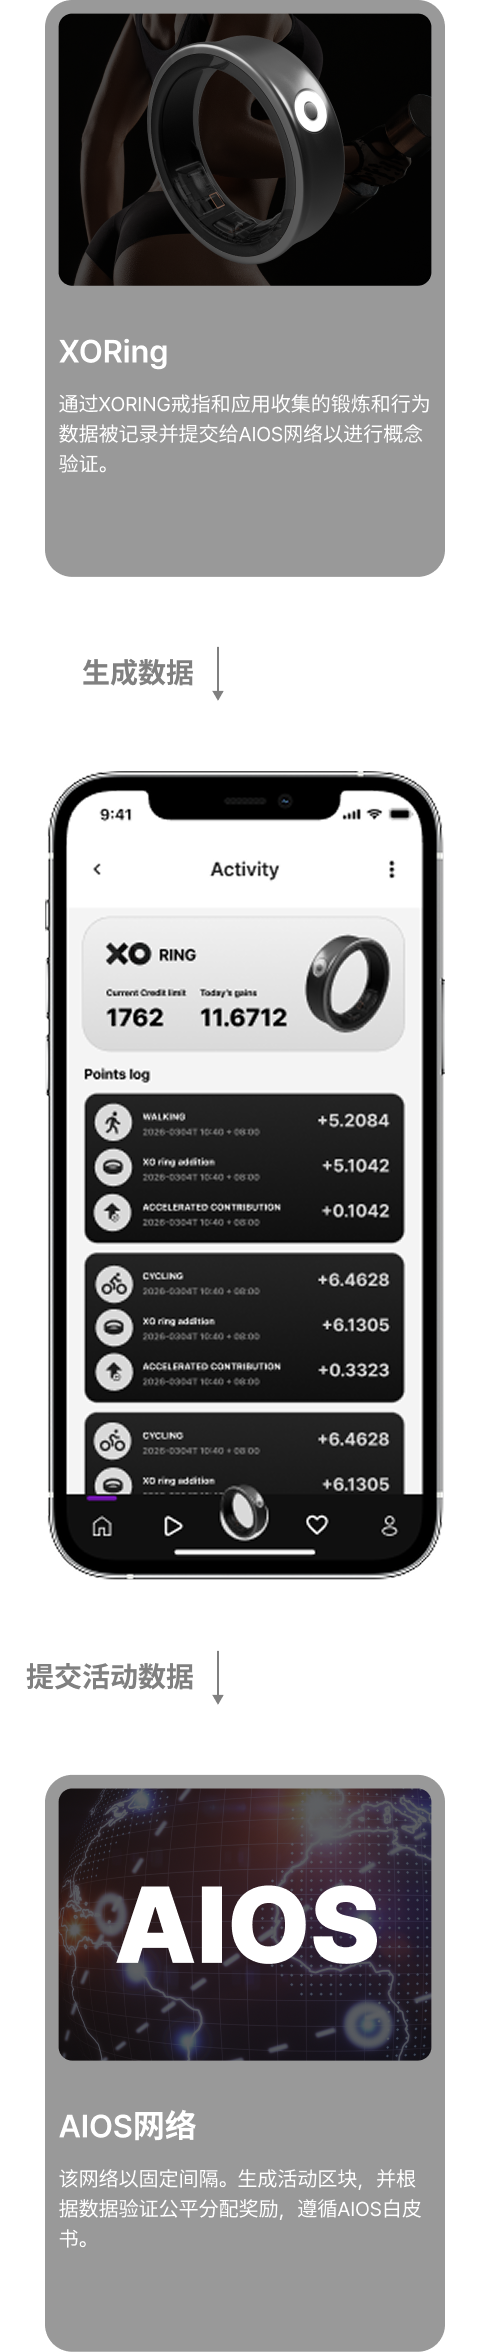
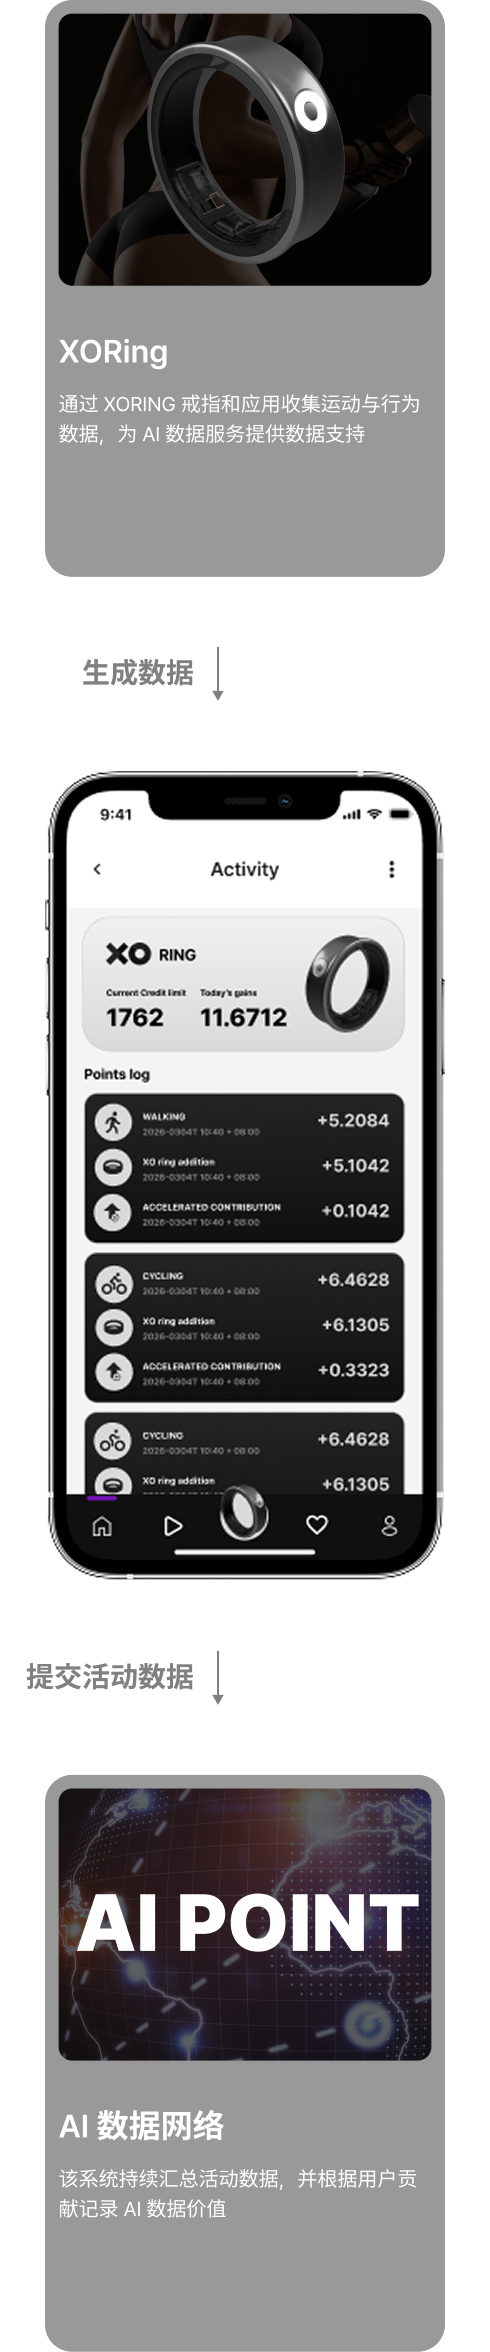
feat: Pioneer 섹션 단위 표기 다국어 지원 (영문 AIOS / 중문 AI POINT)

diff --git a/src/lib/i18n.ts b/src/lib/i18n.ts
@@ -221,6 +221,7 @@ const englishMessages = {
       "Not for everyone.\nNo mass production.",
     ],
     spots: "Limited — 10,000 Spots",
+    tokenUnit: "AIOS",
   },
   policy: {
     title: "Policy & Community Guidelines",
@@ -462,7 +463,7 @@ const chineseMessages = {
       {
         title: "AI 行为智能体",
         description:
-          "“再消耗 400 千卡即可获得奖励”它会设定活动目标, 并在达成后发放 PoC 代币奖励",
+          "“再消耗 400 千卡即可获得 AI 积分” 它会设定活动目标，并在达成后发放 AI 积分",
       },
     ],
   },
@@ -483,11 +484,11 @@ const chineseMessages = {
       "步行与奔跑流下的汗水会转化为真实价值, 让你的时间与坚持得到公平回报",
     activityImageAlt: "活动数据界面",
     proof: "如果计算机可以通过解决复杂问题证明价值, 那么人的行动同样可以",
-    steps: ["佩戴 XORing", "采集活动数据", "贡献证明", "获取 AIOS"],
+    steps: ["佩戴 XORing", "采集活动数据", "数据贡献", "获得 AI 积分"],
     cards: [
       {
-        title: "从 PoW 到 PoC",
-        body: "计算机消耗能源挖矿的时代正在过去。你的脚步与汗水将成为新的真实价值",
+        title: "从算力时代到 AI 数据时代",
+        body: "计算机依赖算力创造价值的时代正在改变。你的脚步与汗水将成为新的数据价值",
       },
       {
         title: "行动即价值",
@@ -499,14 +500,14 @@ const chineseMessages = {
       },
     ],
     outro:
-      "仅使用 XORing 应用也能证明你的价值；佩戴戒指则可采集更丰富的数据并提升奖励",
+      "仅使用 XORing 应用也能记录你的数据贡献；佩戴戒指则可采集更丰富的数据并提升 AI 积分",
     phoneAlt: "XO 应用界面",
   },
   web3: {
-    headline: ["Web3.0 时代的", "全新身份"],
+    headline: ["AI 时代的全新身份"],
     paragraphs: [
       "它不只是一台智能设备",
-      "XORing是你的全新数字身份\n证明你是庞大AI生态系统中的核心成员",
+      "XORing 是你的全新数字身份\n连接 AI 数据网络的重要参与者",
       "记录行动，让日常习惯转化为非凡价值\n从你的指尖开始体验",
     ],
   },
@@ -518,6 +519,7 @@ const chineseMessages = {
       "并非人人可得\n不做大规模量产",
     ],
     spots: "限量 10,000 个名额",
+    tokenUnit: "AI POINT",
   },
   policy: {
     title: "政策与社区准则",

diff --git a/src/components/sections/PioneerSection.tsx b/src/components/sections/PioneerSection.tsx
@@ -45,7 +45,7 @@ export default function PioneerSection({ copy, frontierCopy, locale }: { copy: S
 									<span className="pb-2 text-[clamp(1.6rem,2.5vw,2.25rem)] font-black leading-none">USDT</span>
 									<span className="pb-1 text-[clamp(3rem,5.8vw,4.5rem)] font-thin leading-none text-[#666666]">/</span>
 									<span className="text-[clamp(3.2rem,6.2vw,4.75rem)] font-black leading-none tracking-tight">9,999</span>
-									<span className="pb-2 text-[clamp(1.6rem,2.5vw,2.25rem)] font-black leading-none">AIOS</span>
+									<span className="pb-2 text-[clamp(1.6rem,2.5vw,2.25rem)] font-black leading-none">{copy.tokenUnit}</span>
 								</p>
 							</div>
 						</RevealOnScroll>
